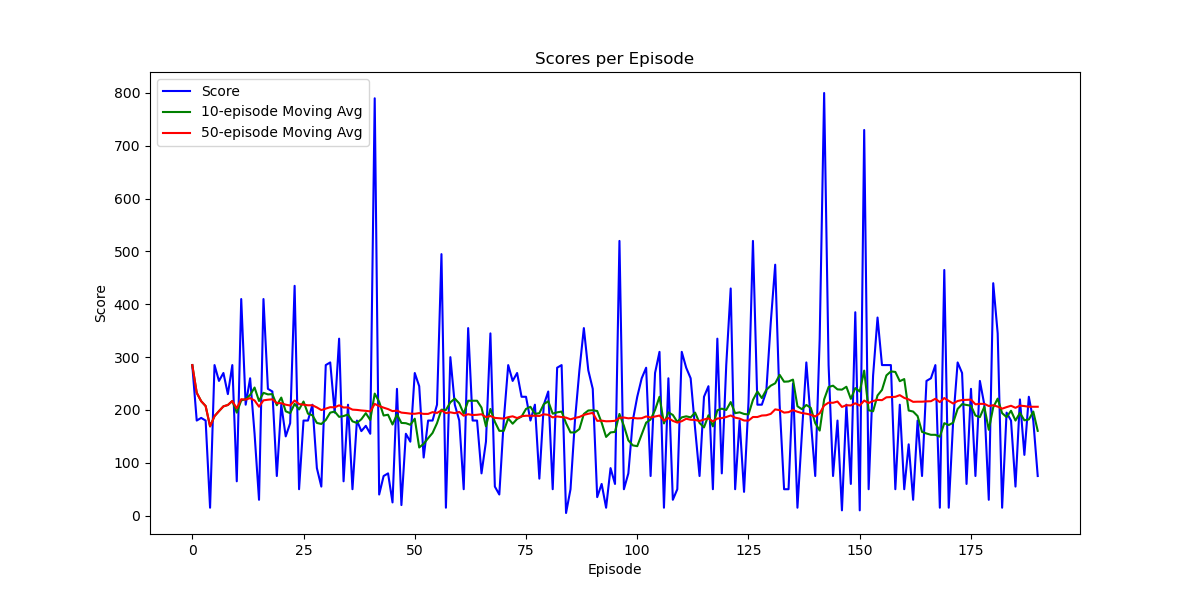
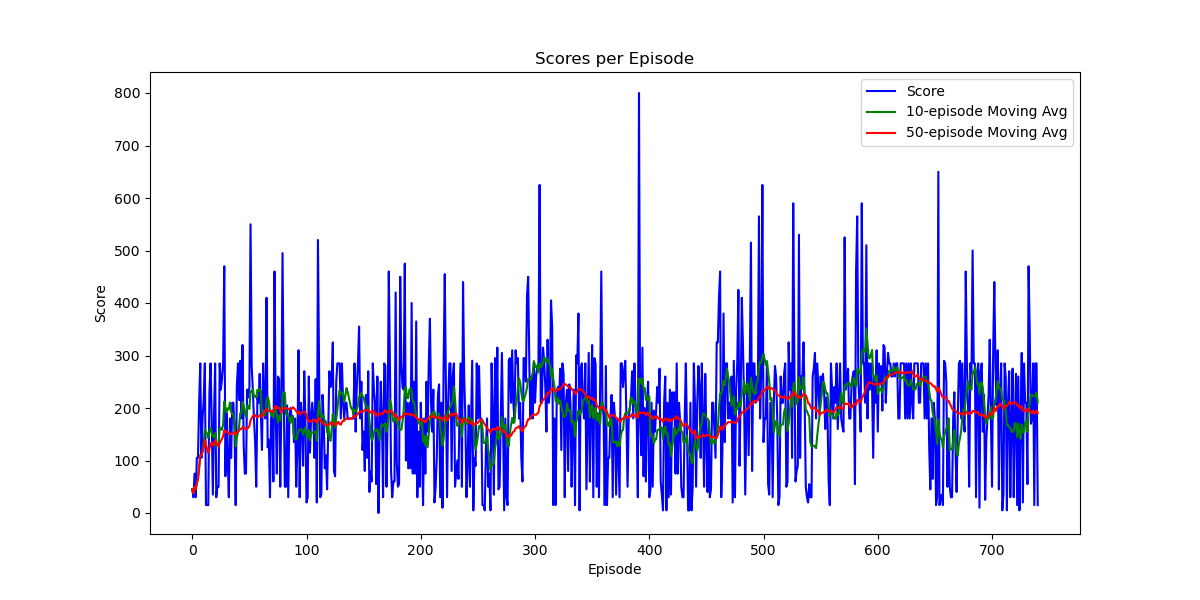
Add CosineAnnealingWarmUpRestarts scheduler

diff --git a/qnet_v2/atari_qnet_v2.py b/qnet_v2/atari_qnet_v2.py
@@ -16,7 +16,6 @@ import matplotlib.pyplot as plt
 device = torch.device("cuda" if torch.cuda.is_available() else "cpu")
 
 # 하이퍼파라미터 설정
-learning_rate = 0.0005  # 학습률
 gamma = 0.98  # 할인계수
 buffer_limit = 50000  # 버퍼 크기
 batch_size = 32  # 배치 크기
@@ -229,6 +228,87 @@ def plot_scores(scores, filename):
     plt.close()
 
 
+import math
+from torch.optim.lr_scheduler import _LRScheduler
+
+
+class CosineAnnealingWarmUpRestarts(_LRScheduler):
+    def __init__(
+        self, optimizer, T_0, T_mult=1, eta_max=0.1, T_up=0, gamma=1.0, last_epoch=-1
+    ):
+        if T_0 <= 0 or not isinstance(T_0, int):
+            raise ValueError("Expected positive integer T_0, but got {}".format(T_0))
+        if T_mult < 1 or not isinstance(T_mult, int):
+            raise ValueError("Expected integer T_mult >= 1, but got {}".format(T_mult))
+        if T_up < 0 or not isinstance(T_up, int):
+            raise ValueError("Expected positive integer T_up, but got {}".format(T_up))
+        self.T_0 = T_0
+        self.T_mult = T_mult
+        self.base_eta_max = eta_max
+        self.eta_max = eta_max
+        self.T_up = T_up
+        self.T_i = T_0
+        self.gamma = gamma
+        self.cycle = 0
+        self.T_cur = last_epoch
+        super(CosineAnnealingWarmUpRestarts, self).__init__(optimizer, last_epoch)
+
+    def get_lr(self):
+        if self.T_cur == -1:
+            return self.base_lrs
+        elif self.T_cur < self.T_up:
+            return [
+                (self.eta_max - base_lr) * self.T_cur / self.T_up + base_lr
+                for base_lr in self.base_lrs
+            ]
+        else:
+            return [
+                base_lr
+                + (self.eta_max - base_lr)
+                * (
+                    1
+                    + math.cos(
+                        math.pi * (self.T_cur - self.T_up) / (self.T_i - self.T_up)
+                    )
+                )
+                / 2
+                for base_lr in self.base_lrs
+            ]
+
+    def step(self, epoch=None):
+        if epoch is None:
+            epoch = self.last_epoch + 1
+            self.T_cur = self.T_cur + 1
+            if self.T_cur >= self.T_i:
+                self.cycle += 1
+                self.T_cur = self.T_cur - self.T_i
+                self.T_i = (self.T_i - self.T_up) * self.T_mult + self.T_up
+        else:
+            if epoch >= self.T_0:
+                if self.T_mult == 1:
+                    self.T_cur = epoch % self.T_0
+                    self.cycle = epoch // self.T_0
+                else:
+                    n = int(
+                        math.log(
+                            (epoch / self.T_0 * (self.T_mult - 1) + 1), self.T_mult
+                        )
+                    )
+                    self.cycle = n
+                    self.T_cur = epoch - self.T_0 * (self.T_mult**n - 1) / (
+                        self.T_mult - 1
+                    )
+                    self.T_i = self.T_0 * self.T_mult ** (n)
+            else:
+                self.T_i = self.T_0
+                self.T_cur = epoch
+
+        self.eta_max = self.base_eta_max * (self.gamma**self.cycle)
+        self.last_epoch = math.floor(epoch)
+        for param_group, lr in zip(self.optimizer.param_groups, self.get_lr()):
+            param_group["lr"] = lr
+
+
 # 메인 함수 정의
 def main():
     env = gym.make(
@@ -246,11 +326,11 @@ def main():
     average_score = 0.0
 
     # 최적화 함수 설정
-    optimizer = optim.Adam(q.parameters(), lr=0.01)  # 초기 학습률 설정
+    optimizer = optim.Adam(q.parameters(), lr=0)  # 초기 학습률 설정
 
     # CosineAnnealingLR 스케줄러 초기화
-    scheduler = torch.optim.lr_scheduler.CosineAnnealingLR(
-        optimizer, T_max=2000, eta_min=0.0005
+    scheduler = CosineAnnealingWarmUpRestarts(
+        optimizer, T_0=50, T_mult=2, eta_max=0.1, T_up=10, gamma=0.5
     )
 
     scores = []  # 에피소드별 점수 저장 리스트
